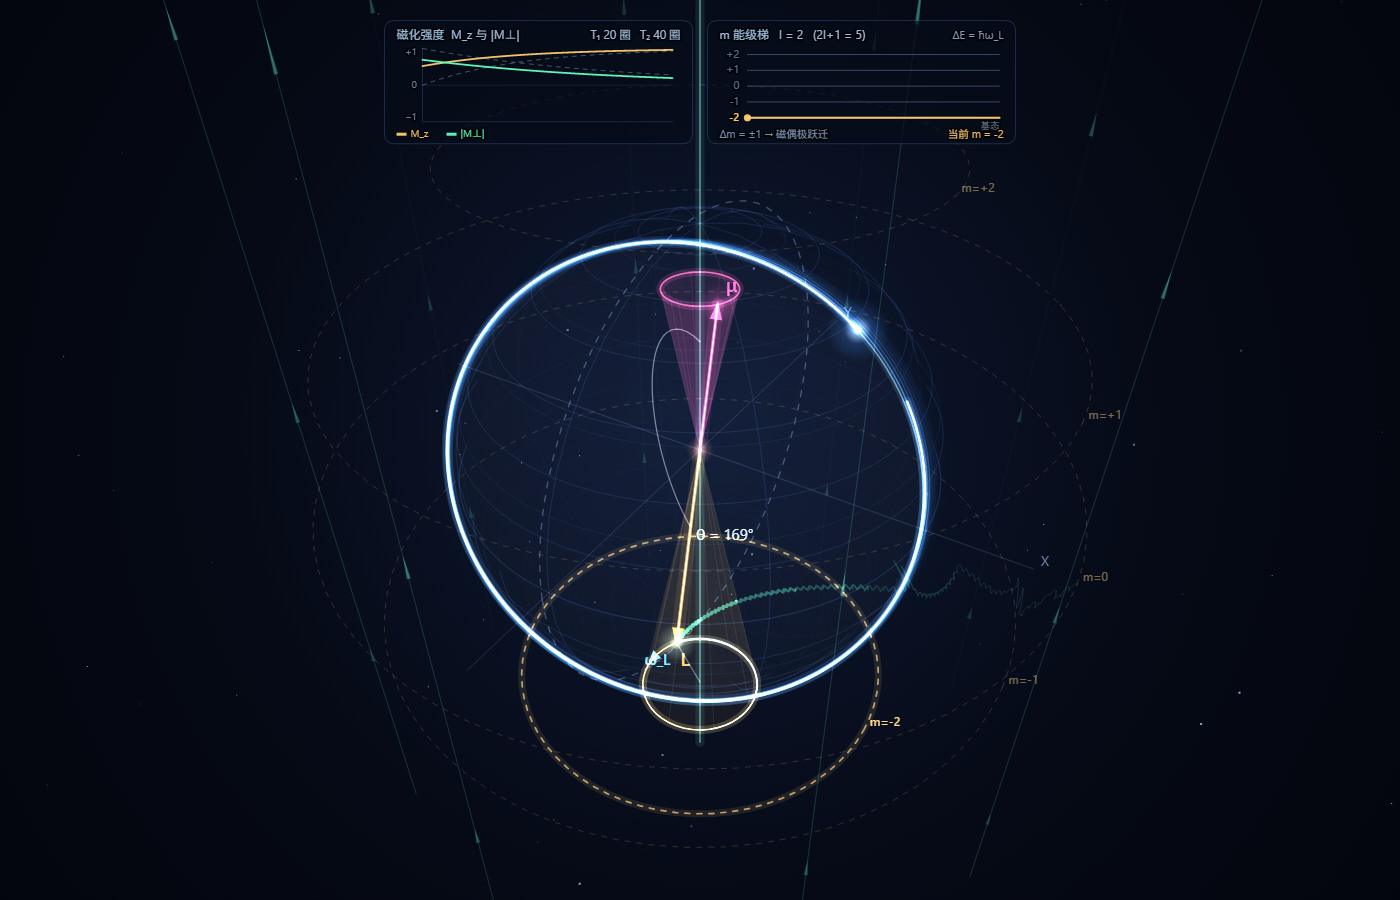
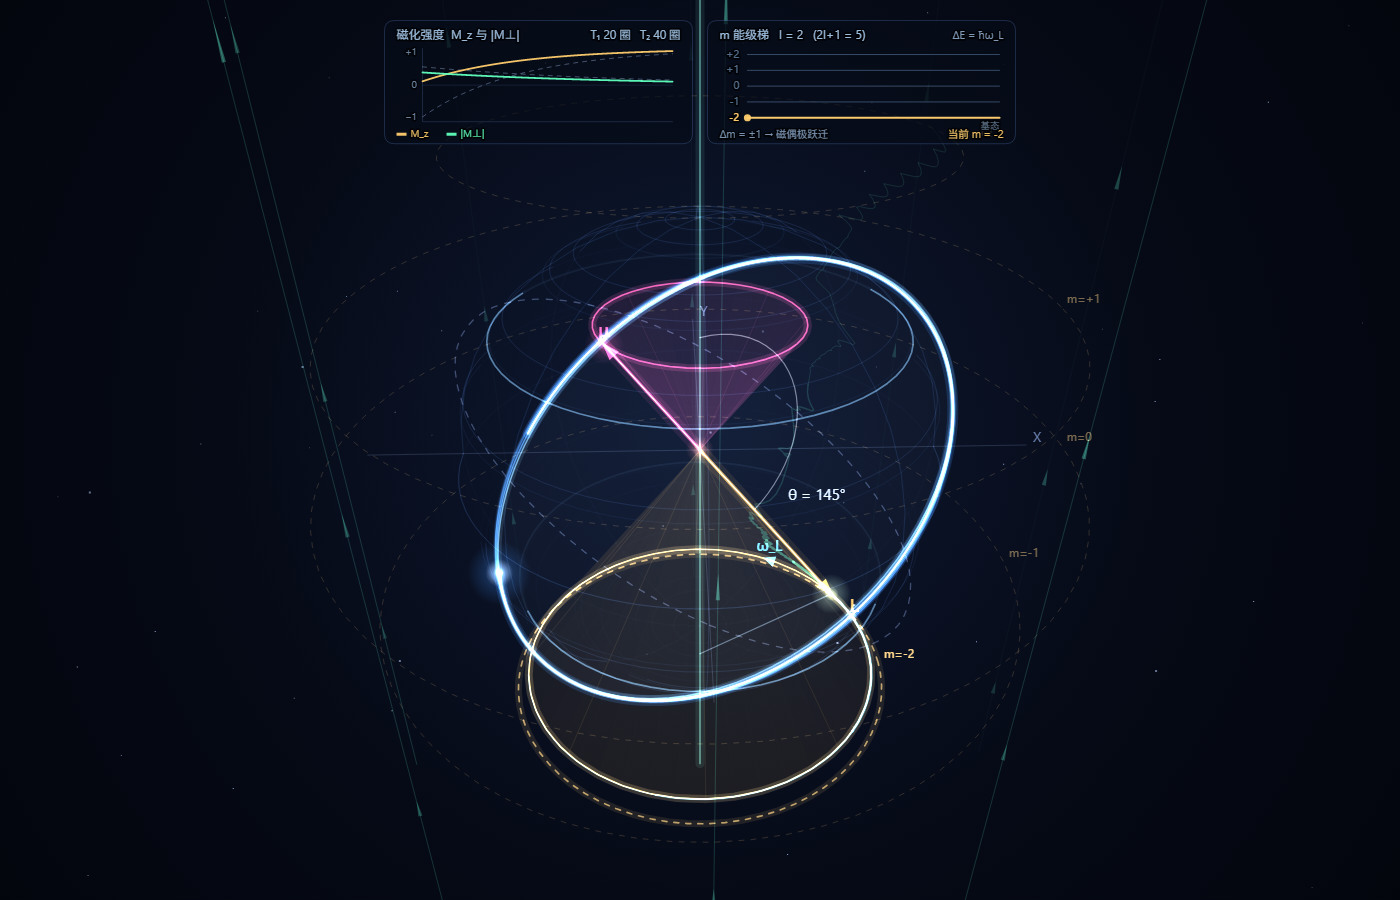
Make the drawn magnetic moment perpendicular to the drawn orbit plane
Reported: "the orbital magnetic moment is not perpendicular to the orbital
plane". Correct - in relaxation/quantisation mode there were two inconsistent
L vectors on screen:

- the arrows, cones and phase dial used S.Ldraw (the Bloch direction, which
  ran all the way to theta = 175 deg), while
- the orbit ring used S.L (the integrated orbit normal, snapped by
  quantisation to the allowed 35.3 deg).

So mu pointed along +Z while the orbit plane sat at 35.3 deg to the equator,
and the two were visibly not perpendicular.

Fix: a single normal drives everything. S.Ldraw is now rebuilt from the
(possibly quantised) plane angle plus the directed branch, and drawOrbit uses
the same S.Ldraw. mu = -L/2 is therefore perpendicular to the orbit plane by
construction, and the drawn vector sits exactly on an allowed cone when
quantisation is on (which is what the vector model says).

Two further bugs surfaced while fixing this:

- The directed-branch reconstruction was inverted: after full relaxation L was
  drawn on the +Z side instead of -Z. Now gam = betaDisp when betaCont > 90
  (L on the +Z side) and 180 - betaDisp otherwise; the two branches meet
  continuously at 90 deg so the switch causes no jump.
- syncRelax assigned the DIRECTED beta (150 deg) to S.betaDisp, which holds an
  UNDIRECTED plane angle. The 0.1 s smoothing therefore started from 150 deg and
  ran backwards, and the m ladder first climbed to +2 before descending. Fixed
  to min(beta, 180 - beta).
[…]

diff --git a/larmor-precession/app.js b/larmor-precession/app.js
@@ -182,8 +182,9 @@ function createApp(canvas, doc, win) {
     S.bp = Math.hypot(L[0], L[1]);                      /* 横向模 |L_⊥| */
     S.mz0 = -S.bz / lm;                                 /* 归一化纵向磁化 M_z/M_eq */
     S.mp0 = S.bp / lm;                                  /* 归一化横向磁化 */
-    S.betaCont = Math.atan2(S.bp, -S.bz);               /* 与平衡方向 -Z 的夹角 */
-    S.betaDisp = S.betaCont;
+    S.betaCont = Math.atan2(S.bp, -S.bz);               /* 有向: L 与平衡方向 -Z 的夹角 */
+    S.betaDisp = Math.min(S.betaCont, Math.PI - S.betaCont);  /* 无向: 轨道面的倾角 */
+    S.branch = (S.betaCont > Math.PI / 2) ? 1 : -1;
     S.mNow = S.quant ? mForBeta(S.betaCont, S.lq) : -1;
   }
   /* 由 T1 与纯退相位速率合成 T2:   1/T2 = 1/(2T1) + 1/T2' */
@@ -282,6 +283,9 @@ function createApp(canvas, doc, win) {
       S.betaDisp = pNow;              /* 都不开: 保持精确积分, 不动轨道面 */
     }
     S.mNow = S.quant ? mForBeta(S.betaCont, S.lq) : -1;
+    /* 有向分支: beta>90° 表示 L 在 +Z 一侧。用来把"无向的面倾角"还原成有向方向,
+     * 这样量子化 snap 之后 m 与画出来的锥仍然一一对应。 */
+    S.branch = (S.betaCont > Math.PI / 2) ? 1 : -1;
 
     /* 观测量 */
     var L = PH.angularMomentum(S);
@@ -291,16 +295,22 @@ function createApp(canvas, doc, win) {
     S.phiPrev = phi;
     S.L = L; S.Lmag = V.len(L); S.rmag = PH.radius(S);
     S.thetaNow = Math.acos(clamp(V.unit(L)[2], -1, 1));   /* 当前真实倾角 ∠(L, +Z) */
-    /* 绘制用的系综平均 ⟨L⟩: 方向取自布洛赫变量, 长度 ∝ |⟨L⟩|。
-     * 反转恢复(π 脉冲)时 |⟨L⟩| 会穿过 0 再反向长出来 —— 此时方向翻转 180°
-     * 但长度恰好为 0, 所以视觉上是"缩成一个点再长出来", 与布洛赫图像一致。 */
+    /* 绘制用矢量 S.Ldraw —— 它同时决定"箭头方向"和"轨道面法线", 二者必须共用同一个
+     * 法线, 否则画出来的 μ 就不垂直于画出来的轨道面 (μ = -L/2 是严格反平行的)。
+     * 方向由(可能已被量子化 snap 的)面倾角 + 有向分支重建; 长度 ∝ |⟨L⟩|,
+     * 所以反转恢复时箭头会缩成一个点再反向长出来。 */
     S.mag = 1;
-    S.Ldraw = V.unit(L);
-    if (S.relax) {
-      var rr = Math.hypot(S.bp, S.bz) || 1e-9;
-      var phd = Math.atan2(L[1], L[0]);
-      S.Ldraw = [S.bp * Math.cos(phd) / rr, S.bp * Math.sin(phd) / rr, S.bz / rr];
-      S.mag = rr / (S.L0mag || 1);
+    if (S.relax || S.quant) {
+      /* betaCont 是"与 -Z 的夹角", 而绘制方向要的是"与 +Z 的夹角":
+       *   branch=+1 (L 在 +Z 侧, beta>90): 与 +Z 夹角 = 面倾角
+       *   branch=-1 (L 在 -Z 侧, beta<90): 与 +Z 夹角 = 180 - 面倾角
+       * 两者在 beta=90 处连续对接, 分支切换不会有跳变。 */
+      var gam = (S.branch > 0) ? S.betaDisp : (Math.PI - S.betaDisp);
+      var azd = Math.atan2(L[1], L[0]);
+      S.Ldraw = [Math.sin(gam) * Math.cos(azd), Math.sin(gam) * Math.sin(azd), Math.cos(gam)];
+      S.mag = S.relax ? Math.hypot(S.bp, S.bz) / (S.L0mag || 1) : 1;
+    } else {
+      S.Ldraw = V.unit(L);
     }
     S.dE = Math.abs((PH.energy(S) - S.E0) / S.E0);
     S.wMeas = S.t > 4 ? S.phiAcc / S.t : S.B / 2;
@@ -447,9 +457,11 @@ function createApp(canvas, doc, win) {
     }
     strokeBatch(grid, COL.sphere, 0.105, 1);
 
-    /* 球面带: 电子轨迹的极角包络 [90-theta, 90+theta] */
+    /* 球面带: 电子轨迹的极角包络 [90-theta, 90+theta]。theta 必须用当前倾角,
+     * 否则弛豫时带子不跟着变。 */
     if (ui.band) {
-      var th1 = Math.PI / 2 - S.theta, th2 = Math.PI / 2 + S.theta;
+      var thB = (S.thetaNow === undefined) ? S.theta : S.thetaNow;
+      var th1 = Math.PI / 2 - thB, th2 = Math.PI / 2 + thB;
       var rings = [], edges = [], k;
       for (k = 0; k <= 14; k++) {
         var tt = th1 + (th2 - th1) * k / 14;
@@ -746,7 +758,9 @@ function createApp(canvas, doc, win) {
   }
 
   function drawOrbit() {
-    var n = V.unit(S.L), b = basis(n), u = b[1], w = b[2];
+    /* 法线必须与 drawVectors 画箭头用的是同一个 (S.Ldraw),
+     * 否则 μ 看起来不垂直于轨道面。 */
+    var n = V.unit(S.Ldraw || S.L), b = basis(n), u = b[1], w = b[2];
     var R = S.rmag, pts = [], i, a2;
     for (i = 0; i <= 96; i++) { a2 = i / 96 * TAU; pts.push(V.add(V.mul(u, R * Math.cos(a2)), V.mul(w, R * Math.sin(a2)))); }
     /* 极淡的轨道面 */

diff --git a/larmor-precession/test-headless.js b/larmor-precession/test-headless.js
@@ -261,6 +261,18 @@ const snapped = allowed.some(a => Math.abs(parseFloat(a) - tiltDeg()) < 1.0) ||
 if (!snapped) errors.push('开启量子化后轨道面没有落在允许值上: ' + tiltDeg().toFixed(2) + '°');
 else console.log('  → 轨道面已落在允许倾角上 ✓ (β = ' + tiltDeg().toFixed(1) + '°, 对应 m=' + app.state.mNow + ')');
 
+/* μ = -L/2 必须严格垂直于轨道面: 画出来的轨道环用法线 S.Ldraw, μ 也用 S.Ldraw,
+ * 所以二者必然垂直 —— 这里断言"绘制法线"与"物理轨道法线"也一致(同面或反向同面),
+ * 否则箭头会跟轨道环对不上。 */
+(function () {
+  const U = app.state.Ldraw, L = app.state.L;
+  const nu = Math.hypot(U[0], U[1], U[2]), nl = Math.hypot(L[0], L[1], L[2]);
+  const c = Math.abs((U[0] * L[0] + U[1] * L[1] + U[2] * L[2]) / (nu * nl));
+  const ang = Math.acos(Math.min(1, c)) * 180 / Math.PI;
+  console.log('  绘制法线 vs 物理轨道法线: ' + ang.toFixed(2) + '° (同面/反向同面则应接近 0)');
+  if (ang > 8) errors.push('画出来的箭头与轨道环不同面, μ 看起来不垂直于轨道面: ' + ang.toFixed(2) + '°');
+})();
+
 /* ---------------- 检查元素 id 与 index.html 一致 ---------------- */
 const appSrc = fs.readFileSync(path.join(__dirname, 'app.js'), 'utf8');
 const html = fs.readFileSync(path.join(__dirname, 'index.html'), 'utf8');
